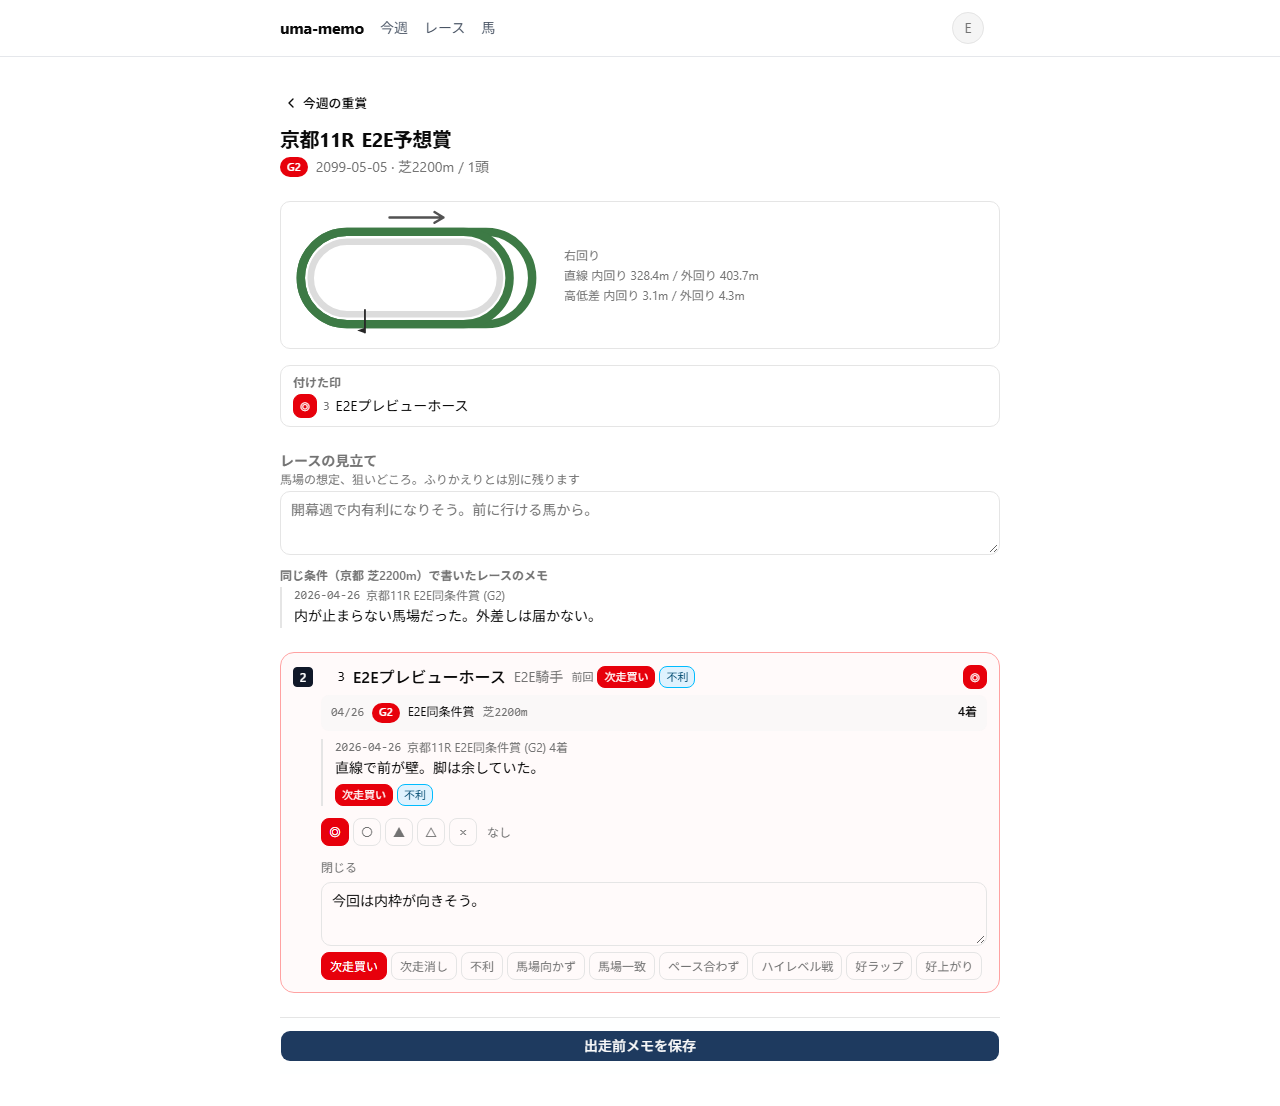
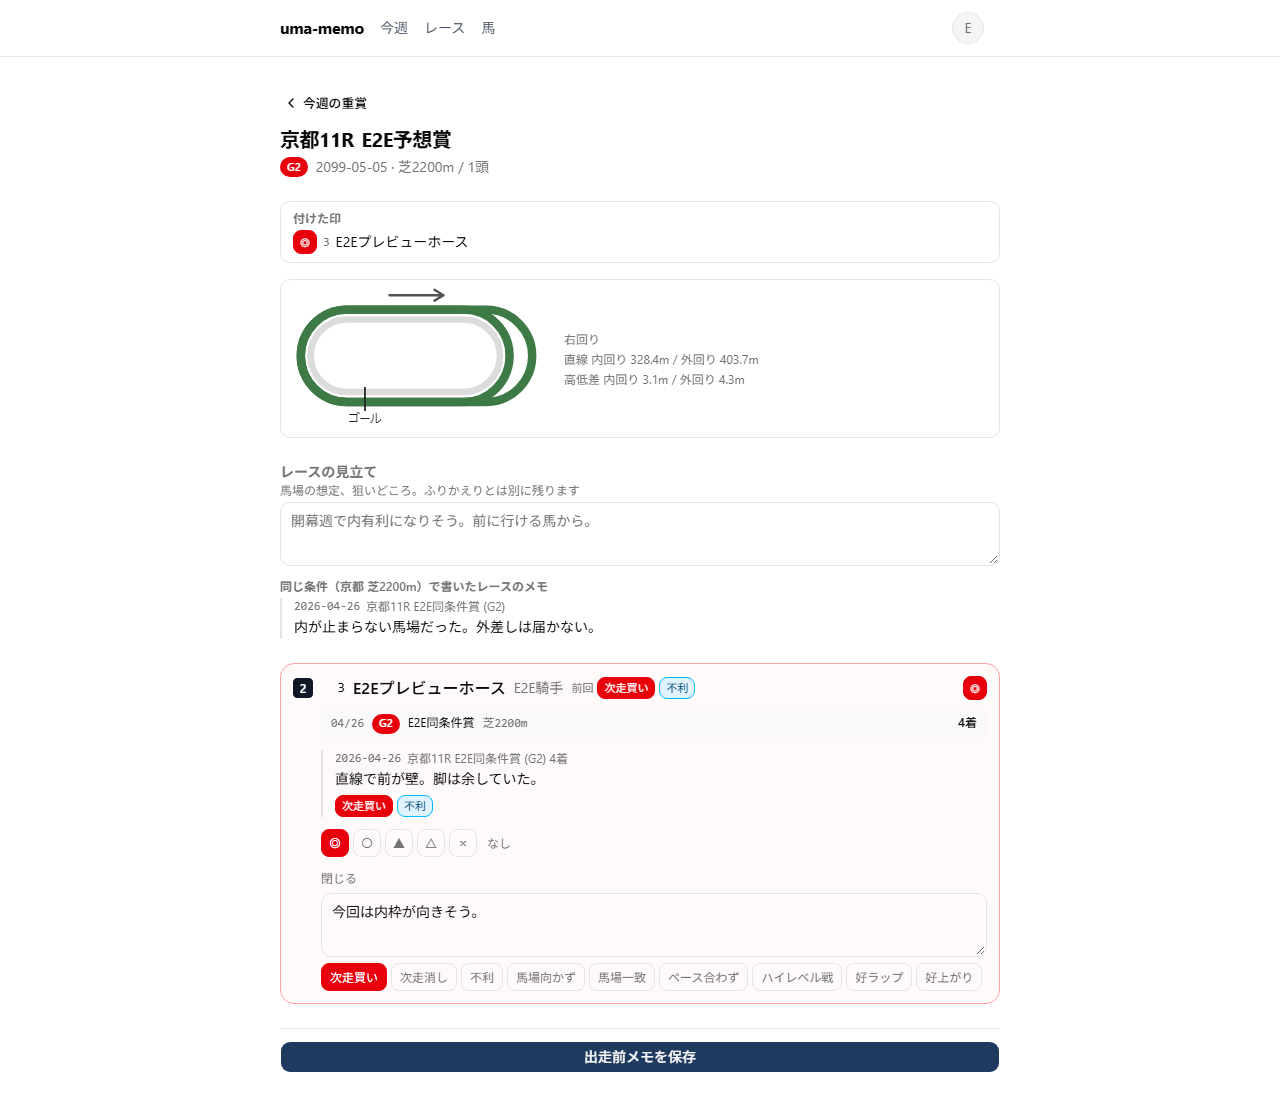
fix: コース図を書く欄の直前に移し、ゴールに文字を添える
保存の結果・エラー・答え合わせを図が押し下げないよう、図は書く欄の直前に置く。
ゴール板は旗だけだと走る向きの矢印と見分けにくかったので「ゴール」と書く。

diff --git a/src/lib/utils/course.ts b/src/lib/utils/course.ts
@@ -197,6 +197,8 @@ const DIRT_WIDTH = 22;
 /** 芝とダートの間にあける幅（中心線どうしではなく、帯の縁どうし）。 */
 const GAP = 8;
 const ARROW_GAP = 34;
+/** 「ゴール」の文字の大きさ（m）。PX_PER_M を掛けると約 11px。 */
+const LABEL_SIZE = 36;
 const PAD = 12;
 
 const COLOR = {
@@ -267,7 +269,7 @@ function layout(spec: CourseSpec): Layout {
 		turf,
 		dirt,
 		straight,
-		box: { x, y, w: Math.max(...xs) + half + PAD - x, h: goalY2 + 10 + PAD - y },
+		box: { x, y, w: Math.max(...xs) + half + PAD - x, h: goalY2 + LABEL_SIZE + 12 + PAD - y },
 		arrowY,
 		goalY1,
 		goalY2
@@ -331,10 +333,13 @@ export function courseMapSvg(spec: CourseSpec, variant: CourseMapVariant): strin
 		`L${n(mid - 90)} ${n(l.arrowY)}L${n(mid - 60)} ${n(l.arrowY + 18)}" fill="none" ` +
 		`stroke="${COLOR.arrow}" stroke-width="8" stroke-linecap="round" stroke-linejoin="round"/>`;
 
-	// ゴール板。コースを横切る線と、その外側の旗。
-	const goal =
-		`<path d="M0 ${n(l.goalY1)}V${n(l.goalY2)}" stroke="${COLOR.mark}" stroke-width="6"/>` +
-		`<path d="M0 ${n(l.goalY2)}l26 -9l-26 -9Z" fill="${COLOR.mark}"/>`;
+	// ゴール板。コースを横切る線。旗だけでは走る向きの矢印と見分けにくいので、文字を添える。
+	const goal = `<path d="M0 ${n(l.goalY1)}V${n(l.goalY2)}" stroke="${COLOR.mark}" stroke-width="6"/>`;
+	// 文字は反転させない（右回りの図は左右を反転して描くので、グループの外に置く）。
+	// ゴールは x = 0 なので、反転しても位置は変わらない。
+	const label =
+		`<text x="0" y="${n(l.goalY2 + LABEL_SIZE)}" font-size="${LABEL_SIZE}" ` +
+		`text-anchor="middle" fill="${COLOR.mark}" font-family="sans-serif">ゴール</text>`;
 
 	const body = [...tracks.map((t) => t.svg), arrow, goal].join('');
 	const flip = spec.direction === '右' ? ' transform="scale(-1 1)"' : '';
@@ -344,7 +349,7 @@ export function courseMapSvg(spec: CourseSpec, variant: CourseMapVariant): strin
 	return (
 		`<svg xmlns="http://www.w3.org/2000/svg" width="${width}" height="${height}" ` +
 		`viewBox="${n(vx)} ${n(box.y)} ${n(box.w)} ${n(box.h)}">` +
-		`<g${flip}>${body}</g></svg>\n`
+		`<g${flip}>${body}</g>${label}</svg>\n`
 	);
 }
 

diff --git a/src/routes/races/[id]/preview/+page.svelte b/src/routes/races/[id]/preview/+page.svelte
@@ -99,8 +99,6 @@
 		</div>
 	</header>
 
-	<CourseMap race={data.race} class="mt-4" />
-
 	<!-- 付けた印の一覧。16頭の中から「どれに◎を打ったか」を探さずに済むように。
 	     並びと色はふりかえりの答え合わせと同じ。押すとその馬の行へ飛ぶ。 -->
 	{#if marked.length > 0}
@@ -138,6 +136,9 @@
 			</p>
 		{/key}
 	{/if}
+
+	<!-- コース図は見返すための資料なので、保存の結果より下、書く欄の直前に置く。 -->
+	<CourseMap race={data.race} class="mt-4" />
 
 	<!-- **出走馬がいなくてもフォームを出す。** 出馬表が出る前の重賞に
 	     「このレースを狙う」と書き留める先が要る。書けるのは見立て1本だけになる。 -->

diff --git a/src/routes/races/[id]/+page.svelte b/src/routes/races/[id]/+page.svelte
@@ -84,8 +84,6 @@
 		{/if}
 	</div>
 
-	<CourseMap race={data.race} class="mt-4" />
-
 	{#if form && 'message' in form && form.message}
 		<p
 			class="mt-4 rounded-md border border-red-200 bg-red-50 px-3 py-2 text-sm text-red-800"
@@ -112,6 +110,9 @@
 			<AnswerCheck {answers} />
 		</div>
 	{/if}
+
+	<!-- コース図は見返すための資料なので、保存の結果と答え合わせより下、書く欄の直前に置く。 -->
+	<CourseMap race={data.race} class="mt-6" />
 
 	{#if data.rows.length === 0}
 		<p class="mt-8 rounded-md border border-gray-200 p-4 text-sm text-gray-500">
